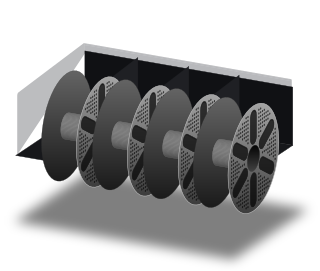
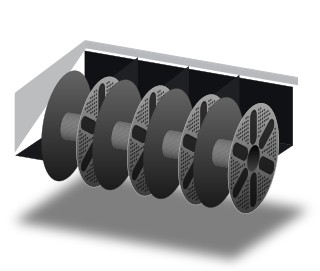
fix(unit-art): the QIDI Box lid stands on the base's slope, flush at the back (prestonbrown/helixscreen#2107)

diff --git a/scripts/unit_art/units/qidi_box.py b/scripts/unit_art/units/qidi_box.py
@@ -18,9 +18,22 @@ TRAY_PX_PER_UNIT = 46.2 / SPOOL_R
 _REPO = Path(__file__).resolve().parents[3]
 
 
+LID_SET_BACK = 0.02
+
+
+def _side_z(y):
+    """The height of the base's sloped side top at depth y: the line the lid sits on."""
+    return ZR + (SIDE_TOP - ZR) * y / D
+
+
 def _lid_profile():
-    """A vertical front pane and a nearly flat roof, with barely softened corners."""
-    return kit.fillet([(0.02, ZR), (0.02, LID_FRONT), (D - 0.035, LID_REAR), (D - 0.035, SIDE_TOP - 0.01)], [0, 0.012, 0.012, 0], steps=4)
+    """A vertical front pane and a nearly flat roof, with barely softened corners.
+
+    The lid stands on the base's sloped side and ends flush with its rear face, so its feet are
+    on that slope: just behind the base's front top edge, and at the rear top corner.
+    """
+    pts = [(LID_SET_BACK, _side_z(LID_SET_BACK)), (LID_SET_BACK, LID_FRONT), (D, LID_REAR), (D, SIDE_TOP)]
+    return kit.fillet(pts, [0, 0.012, 0.012, 0], steps=4)
 
 
 def draw_art(sc, colors, tier):
@@ -29,7 +42,7 @@ def draw_art(sc, colors, tier):
     c = spool.spool_constants(_REPO)
     cam = sc.camera
     prof = _lid_profile()
-    lidx0, lidx1 = 0.012, W - 0.012
+    lidx0, lidx1 = 0.0, W
     side = [(0.0, ZR), (D, SIDE_TOP), (D, 0.0), (0.0, 0.0)]
 
     sc.poly([(0.0, 0.02, 0), (W + 0.03, 0.02, 0), (W + 0.03, D + 0.03, 0), (0, D + 0.03, 0)], "#000", 0.5, blur=True)
@@ -70,7 +83,8 @@ def draw_art(sc, colors, tier):
 
 
 def _tray_shell():
-    profile = _lid_profile()
+    # The tray's base is level, so the lid's front foot starts on the base top there.
+    profile = [(LID_SET_BACK, ZR)] + _lid_profile()[1:]
     dome = kit.tray_profile(profile, ZR, TRAY_PX_PER_UNIT)
     back_extra = dome[-1][1]
     return TrayShellDef([(0.0, 0.0), (1.0, back_extra)], dome, back_extra, 40.0, 8.0, 6.0, True, True, 0xd6d8dc, 0xc4c7cc, 0xeceef0, 0x3b3f46)
